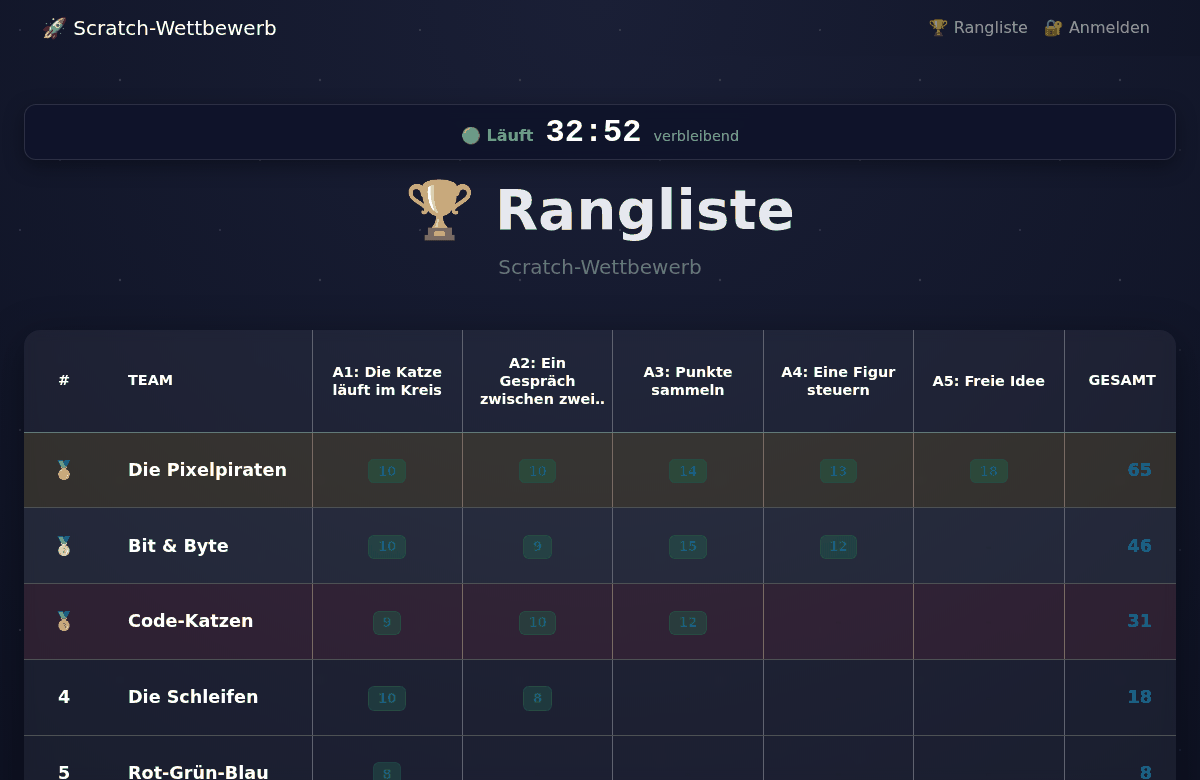
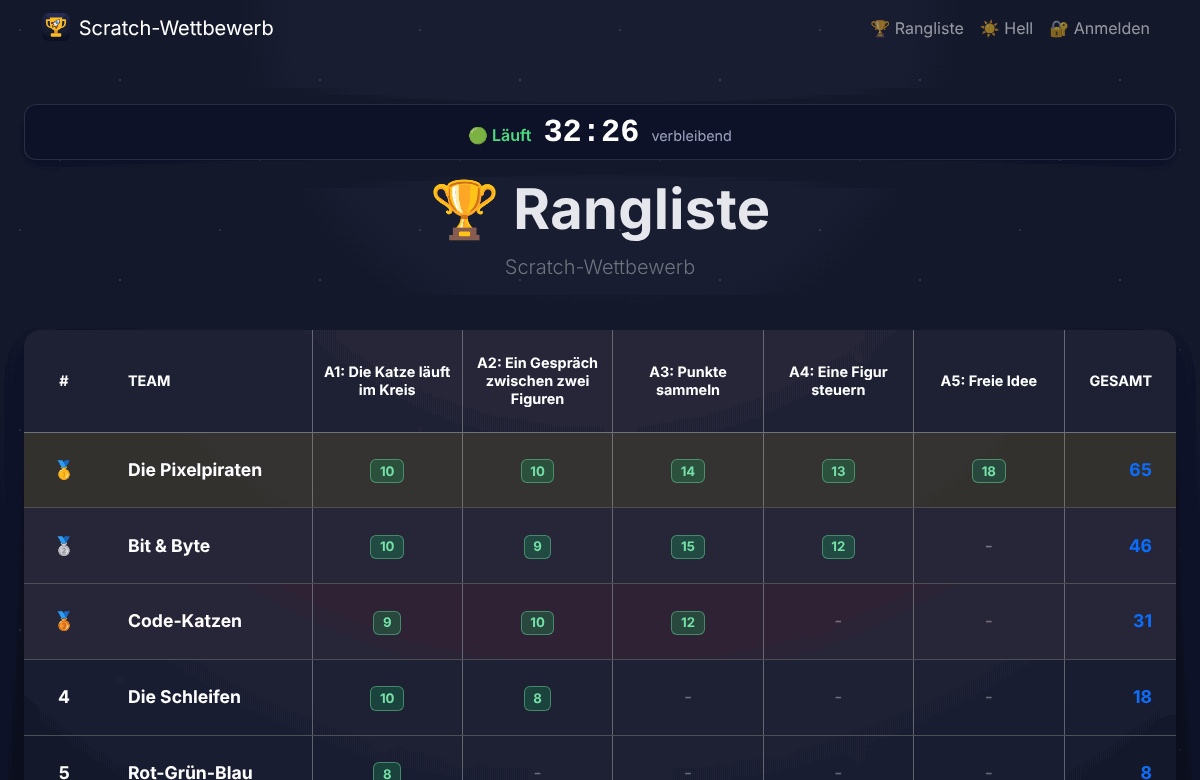
README-Bilder auf den aktuellen Stand, dazu Bewertung und Siegerehrung
Steuerzentrale, Teamansicht und Rangliste zeigten noch die Rakete statt
des Pokal-Zeichens, keinen Eintrag für Hell/Dunkel und unten
„Admin-Anmeldung“; der Teamansicht fehlte „Unsere Skripte anzeigen“.
Neu aufgenommen mit denselben Beispieldaten, dunkel wie bisher.

Neu dazu: „Abgaben bewerten“ mit aufgeklappten Scratch-Blöcken und die
Siegerehrung mit dem Podest. Die Tabelle läuft jetzt in der Reihenfolge
des Wettbewerbstags. Die Urkunde bleibt, das PDF ist unverändert.

Claude-Session: https://claude.ai/code/session_01Fyj2WqMVyna3r3DWz8bjzs

diff --git a/README.md b/README.md
@@ -42,9 +42,13 @@ Für den Wettbewerbstag selbst: [Leitfaden](#-leitfaden-für-den-wettbewerbstag)
 | --- | --- |
 | ![Steuerzentrale](docs/bilder/steuerzentrale.png) | ![Teamansicht](docs/bilder/teamansicht.png) |
 
-| Rangliste | Urkunde |
+| Abgaben bewerten | Rangliste |
 | --- | --- |
-| ![Rangliste](docs/bilder/rangliste.png) | ![Urkunde](docs/bilder/urkunde.png) |
+| ![Abgaben bewerten](docs/bilder/bewertung.png) | ![Rangliste](docs/bilder/rangliste.png) |
+
+| Siegerehrung | Urkunde |
+| --- | --- |
+| ![Siegerehrung](docs/bilder/siegerehrung.png) | ![Urkunde](docs/bilder/urkunde.png) |
 
 ## 🌟 Features
 
